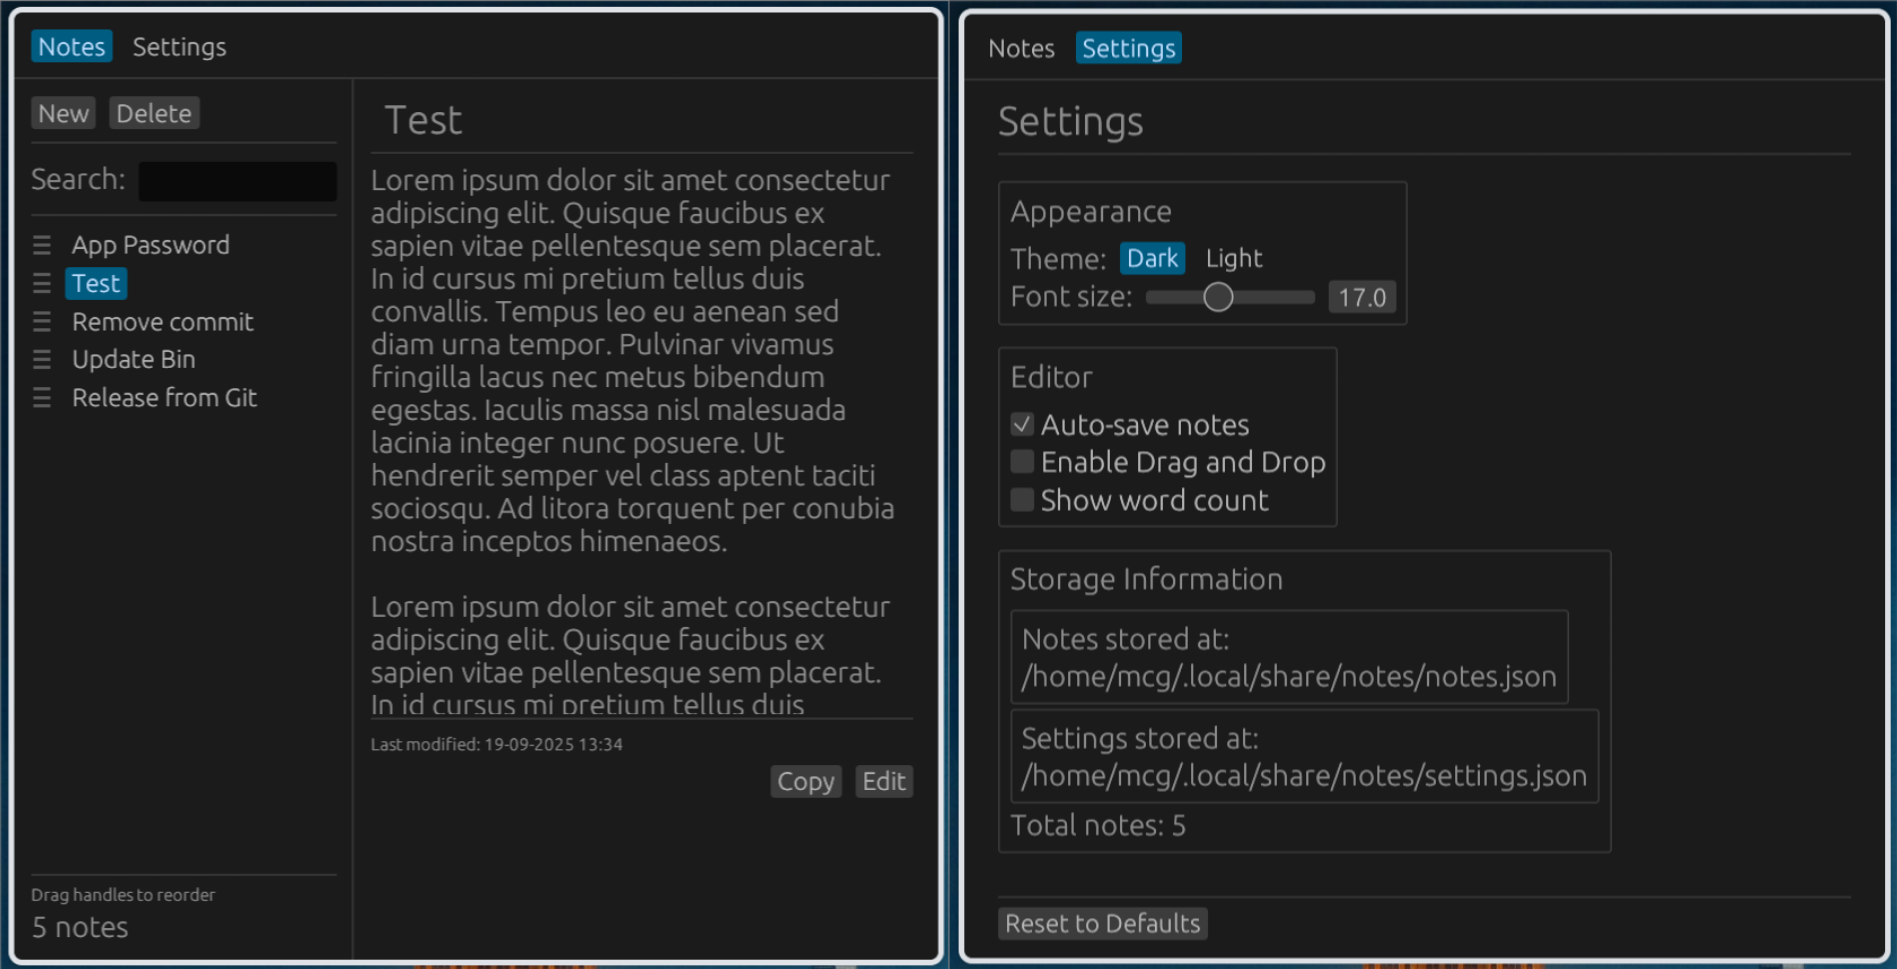
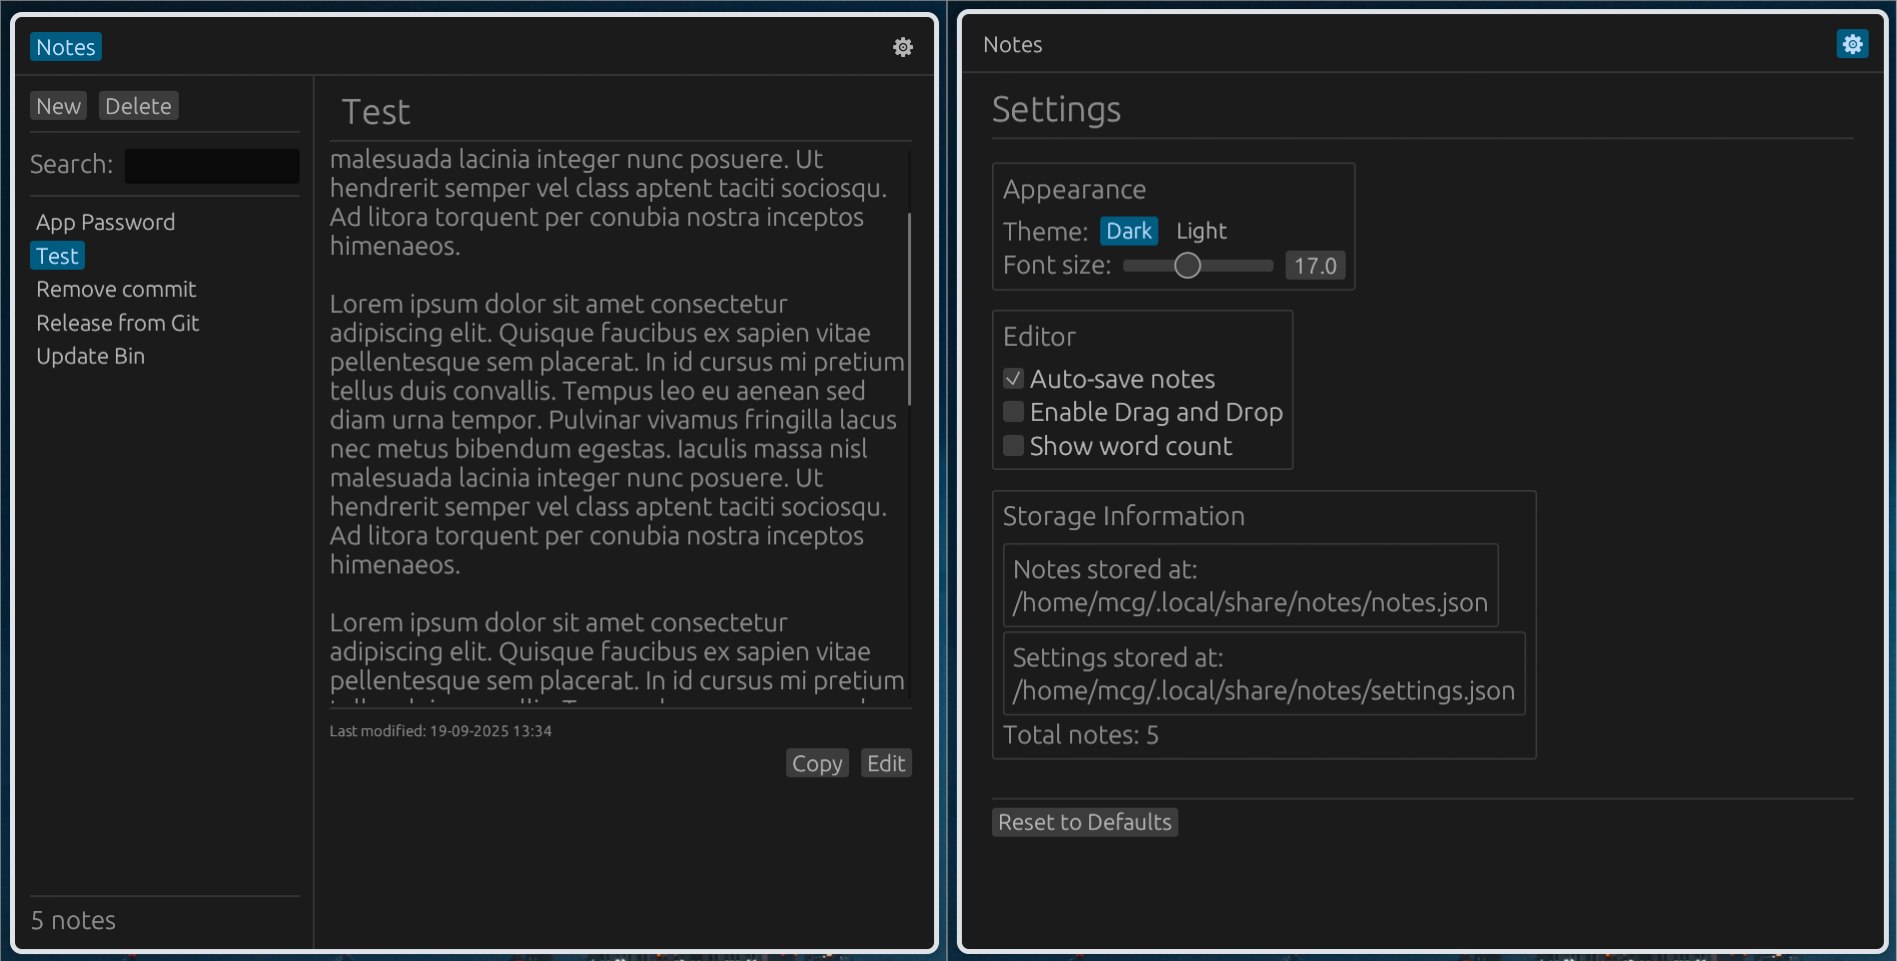
Bump version to v0.4.2

Changed region(s): [[0.0, 0.0, 1.0, 1.0]]

diff --git a/CHANGELOG.md b/CHANGELOG.md
@@ -1,5 +1,17 @@
 # Changelog
 
+## 0.4.2
+
+Released on 2025-09-25
+
+### What's new
+
+- Interactable settings label is now aligned to right and replaced text with an icon ([709f2bc](https://github.com/MCGirgin/notes/commit/709f2bc54f0b07420be9c54848d373c8d18444dc))
+
+### Enhancements
+
+- Updated cargo.toml for smaller binaries and lightweight build ([7332535](https://github.com/MCGirgin/notes/commit/73325356891504f279f3ceba25f56533165481ea))
+
 ## 0.4.1
 
 Released on 2025-09-23
